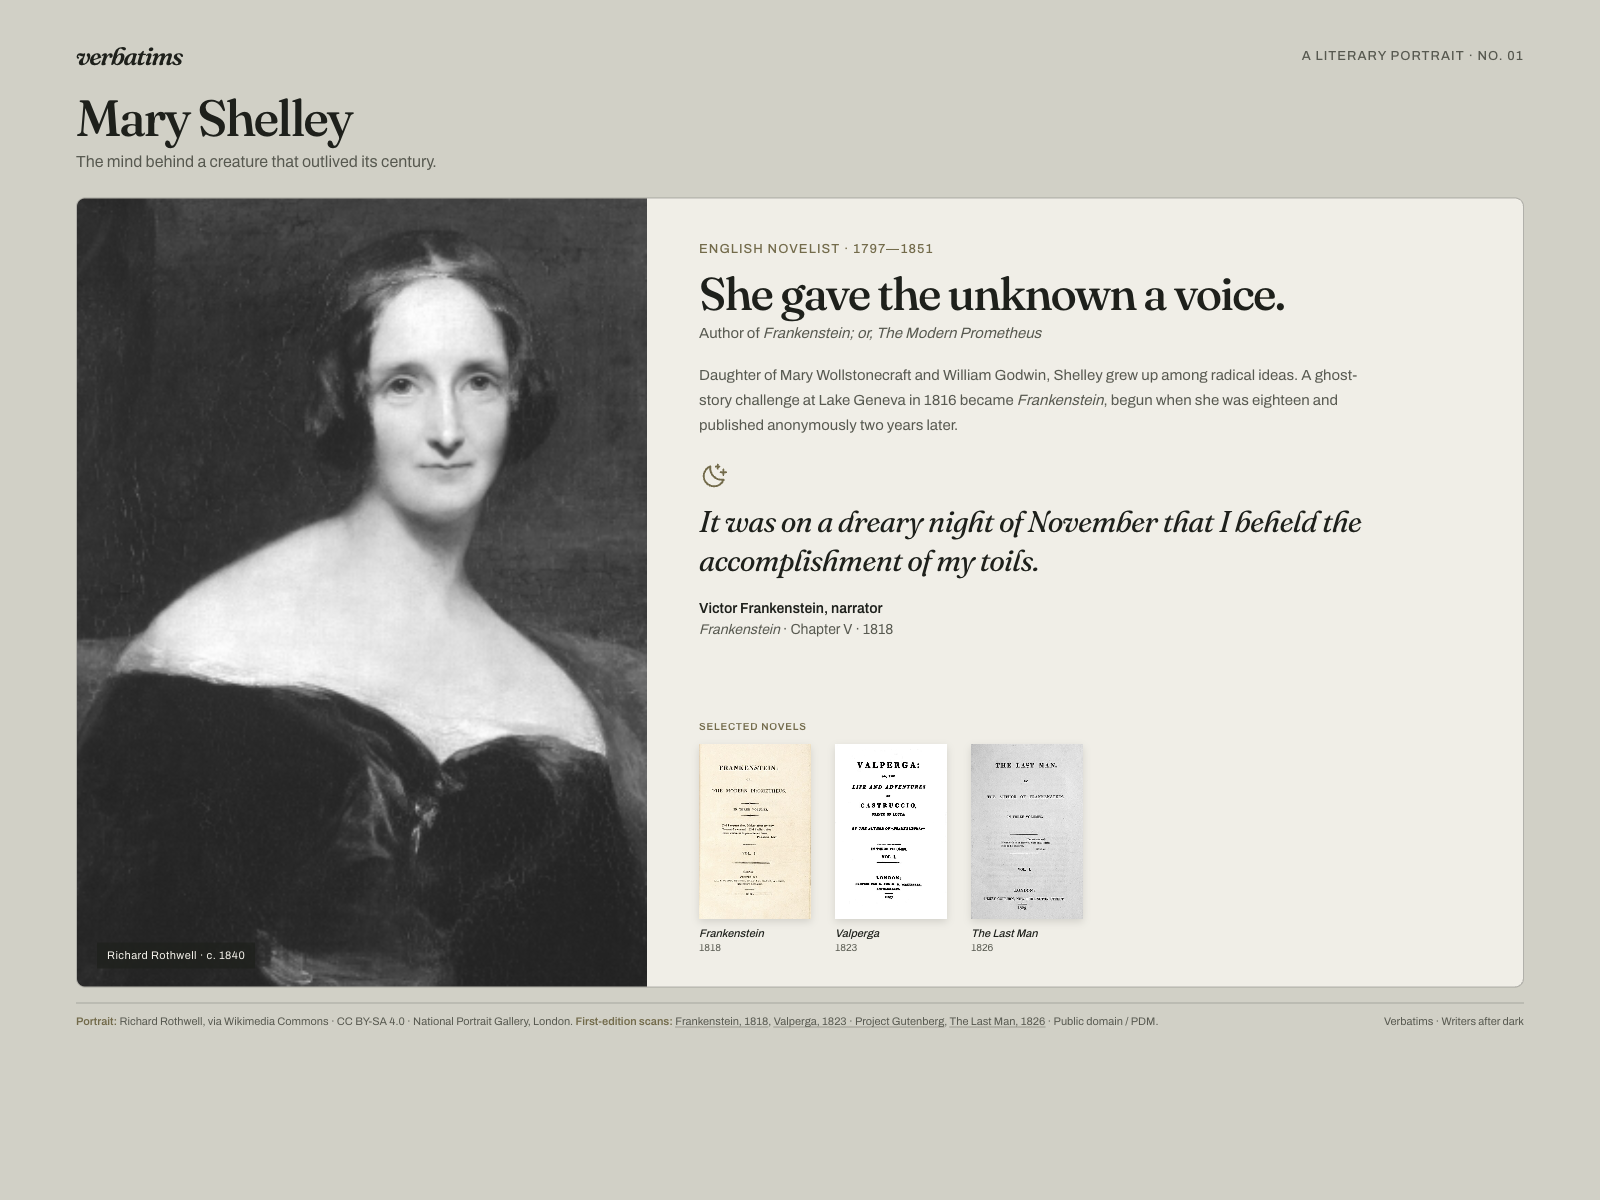
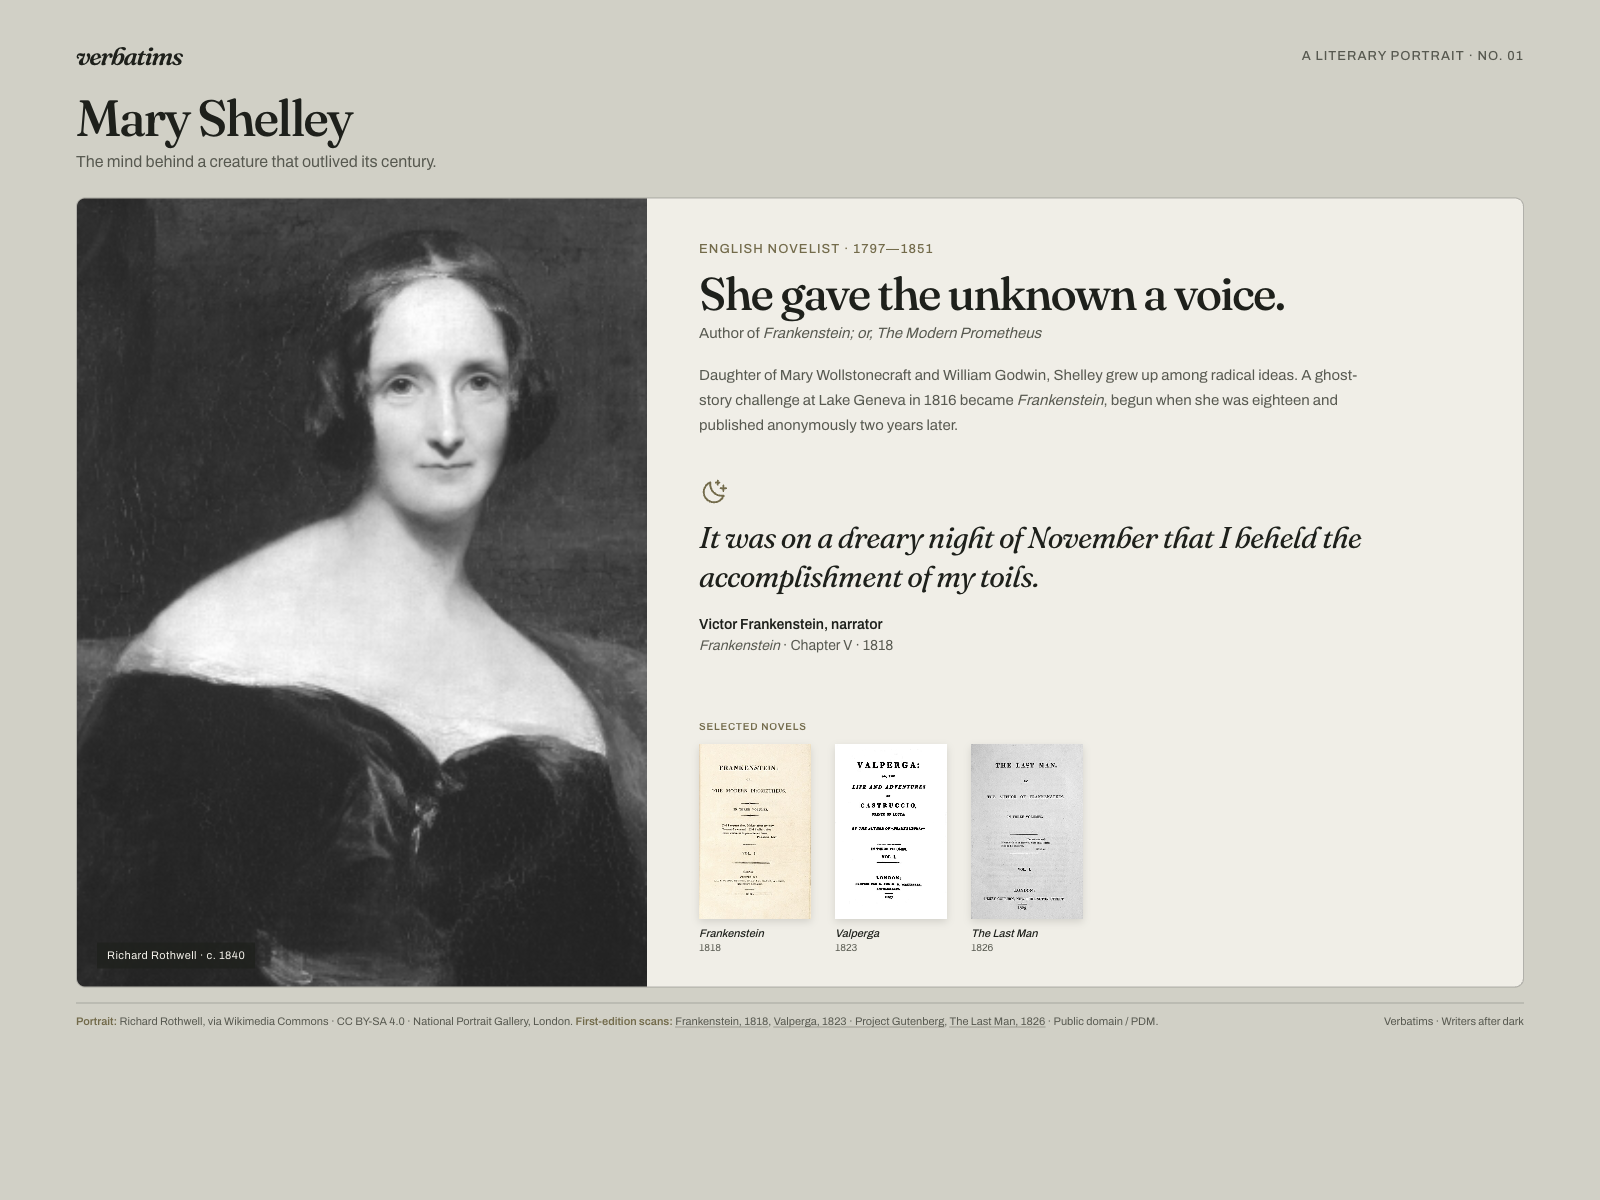
🖼 docs(dribbble): refine Mary Shelley spacing [skip ci]

Changed region(s): [[0.4375, 0.4008, 0.875, 0.555]]

diff --git a/docs/design/dribbble/2026-10-28/mary-shelley.html b/docs/design/dribbble/2026-10-28/mary-shelley.html
@@ -38,7 +38,7 @@
       h2 { margin: 13px 0 8px; font: 500 46px/1.04 Fraunces, Georgia, serif; letter-spacing: -.04em; }
       .role { margin: 0; color: var(--muted); font-size: 15px; }
       .bio { max-width: 670px; margin: 22px 0 0; color: var(--muted); font-size: 15px; line-height: 1.65; }
-      .quote-block { margin-top: 24px; padding-top: 0; }
+      .quote-block { margin-top: 40px; padding-top: 0; }
       blockquote { margin: 0; font: italic 400 30px/1.3 Fraunces, Georgia, serif; letter-spacing: -.025em; }
       .quote-icon { display: block; width: 30px; height: 30px; margin-bottom: 10px; color: var(--olive); }
       .attribution { margin-top: 19px; color: var(--muted); font-size: 14px; line-height: 1.5; }
